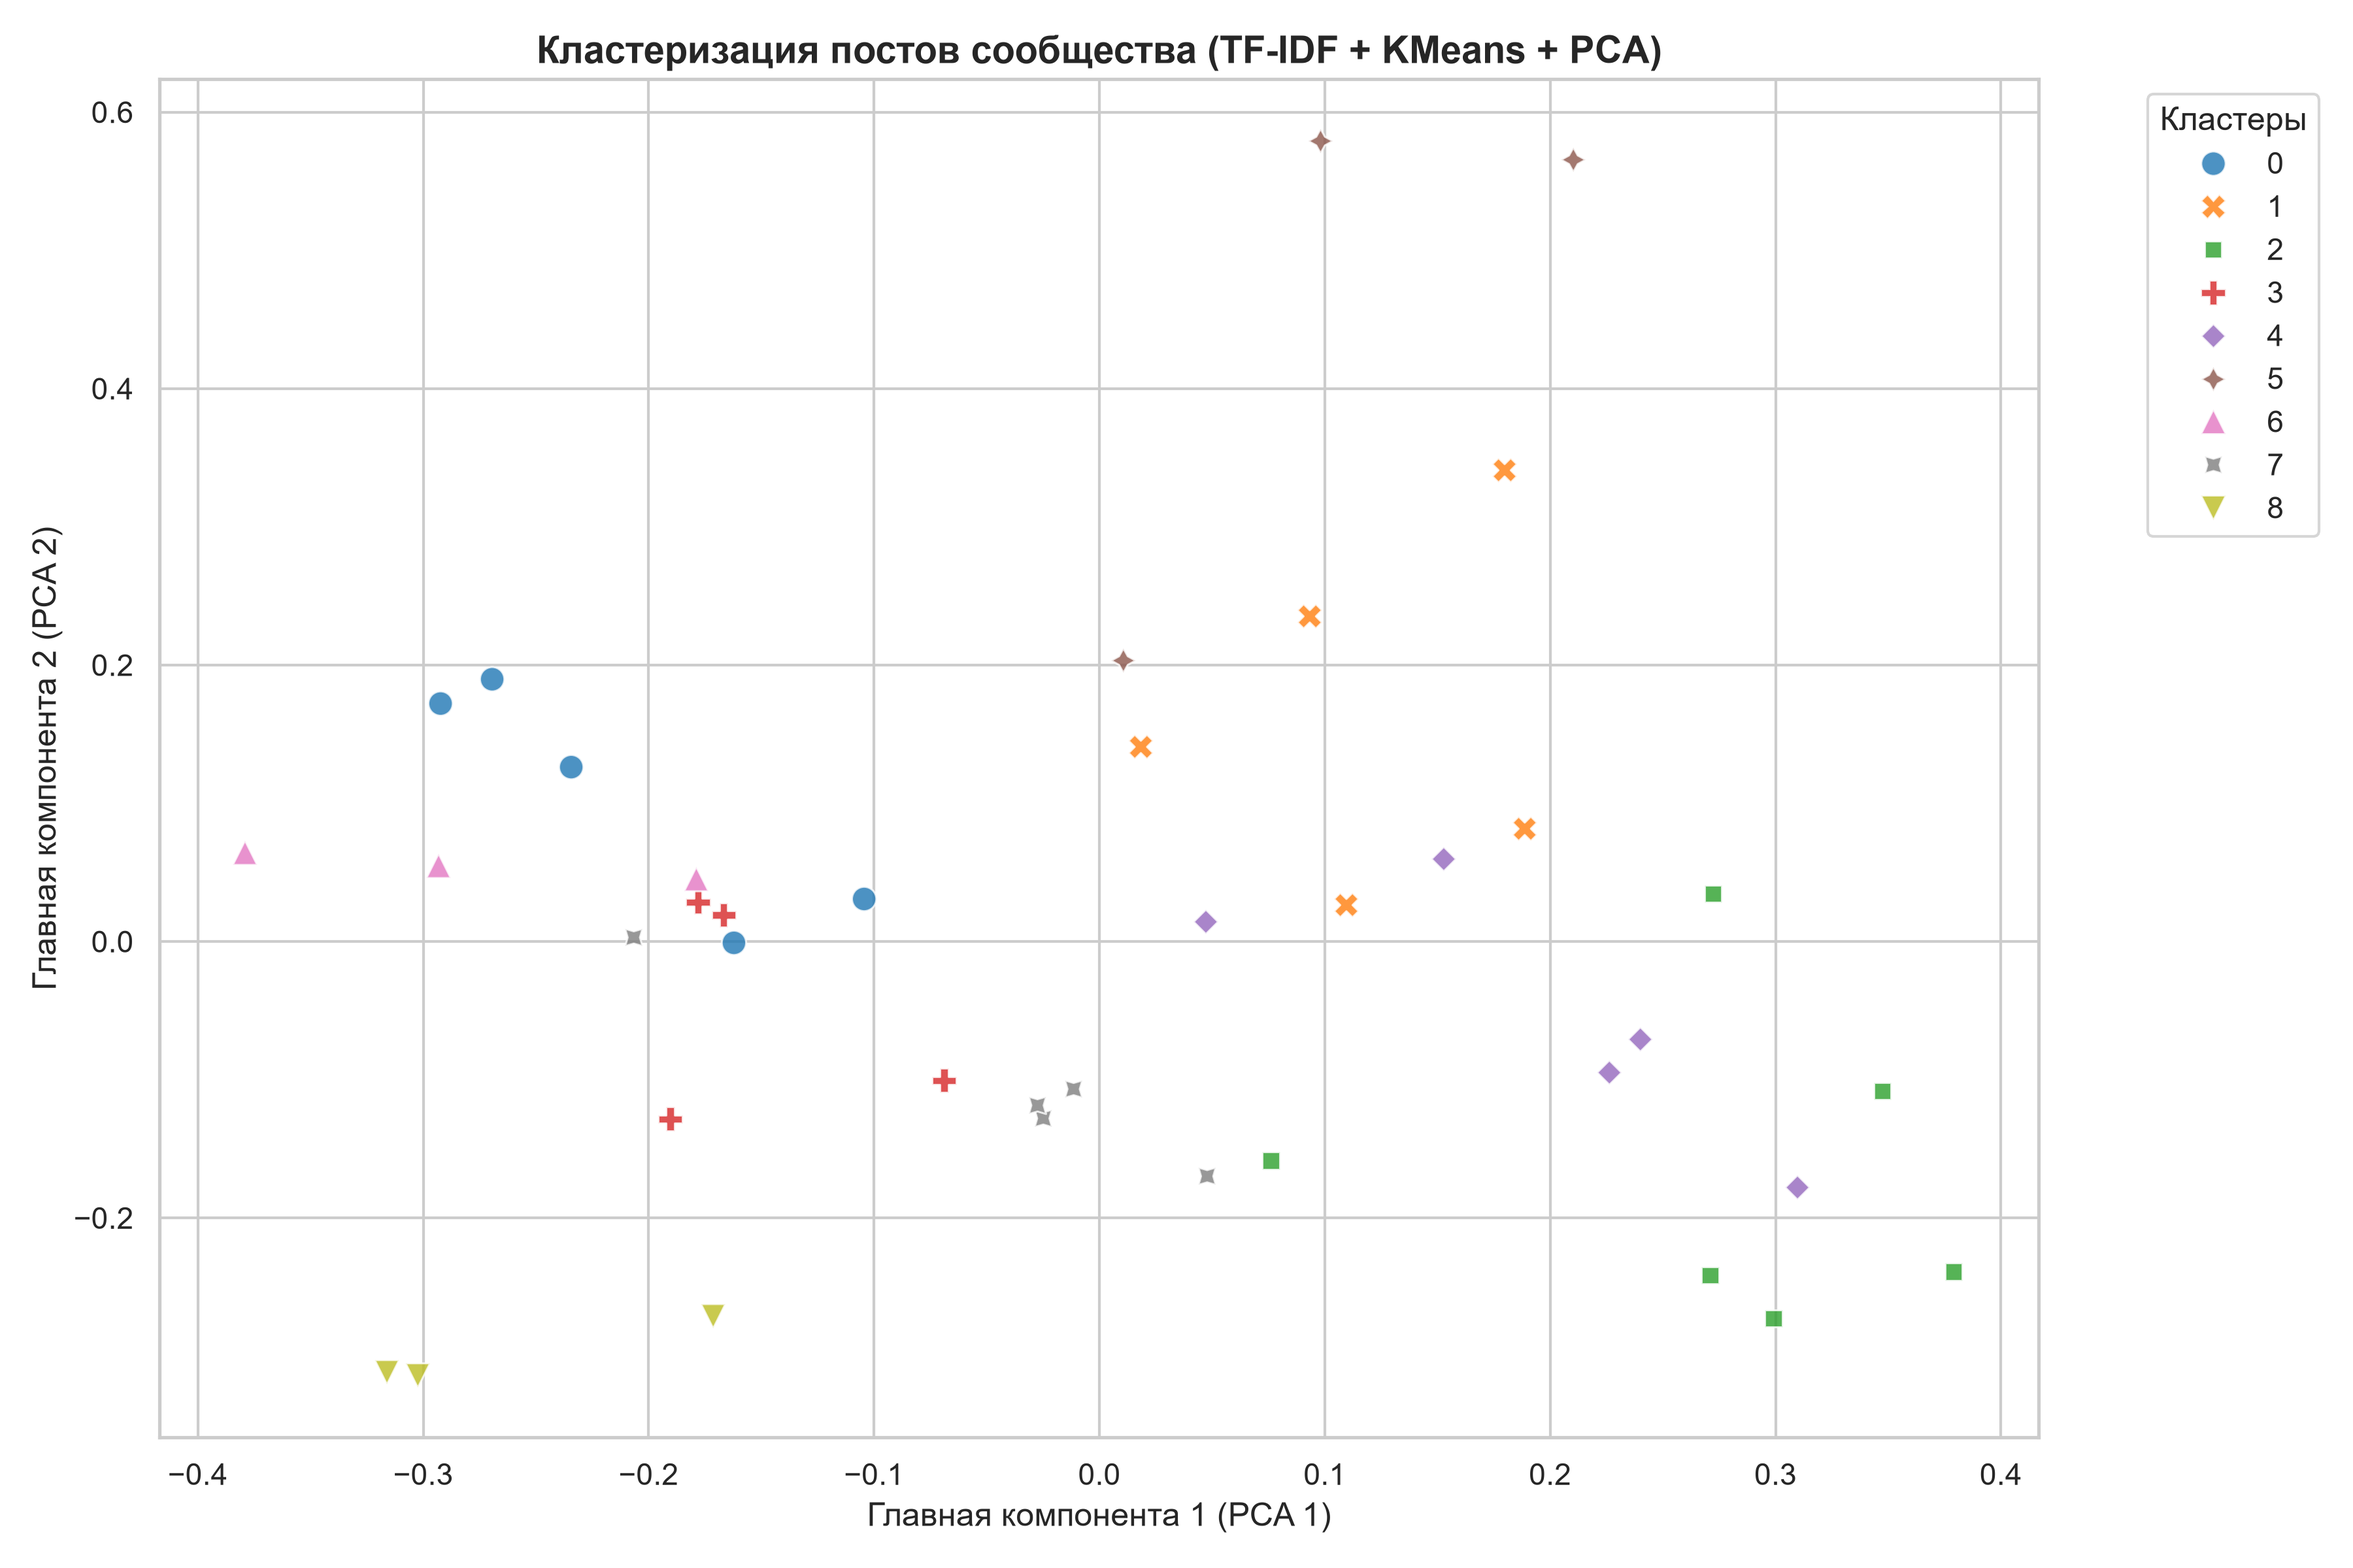
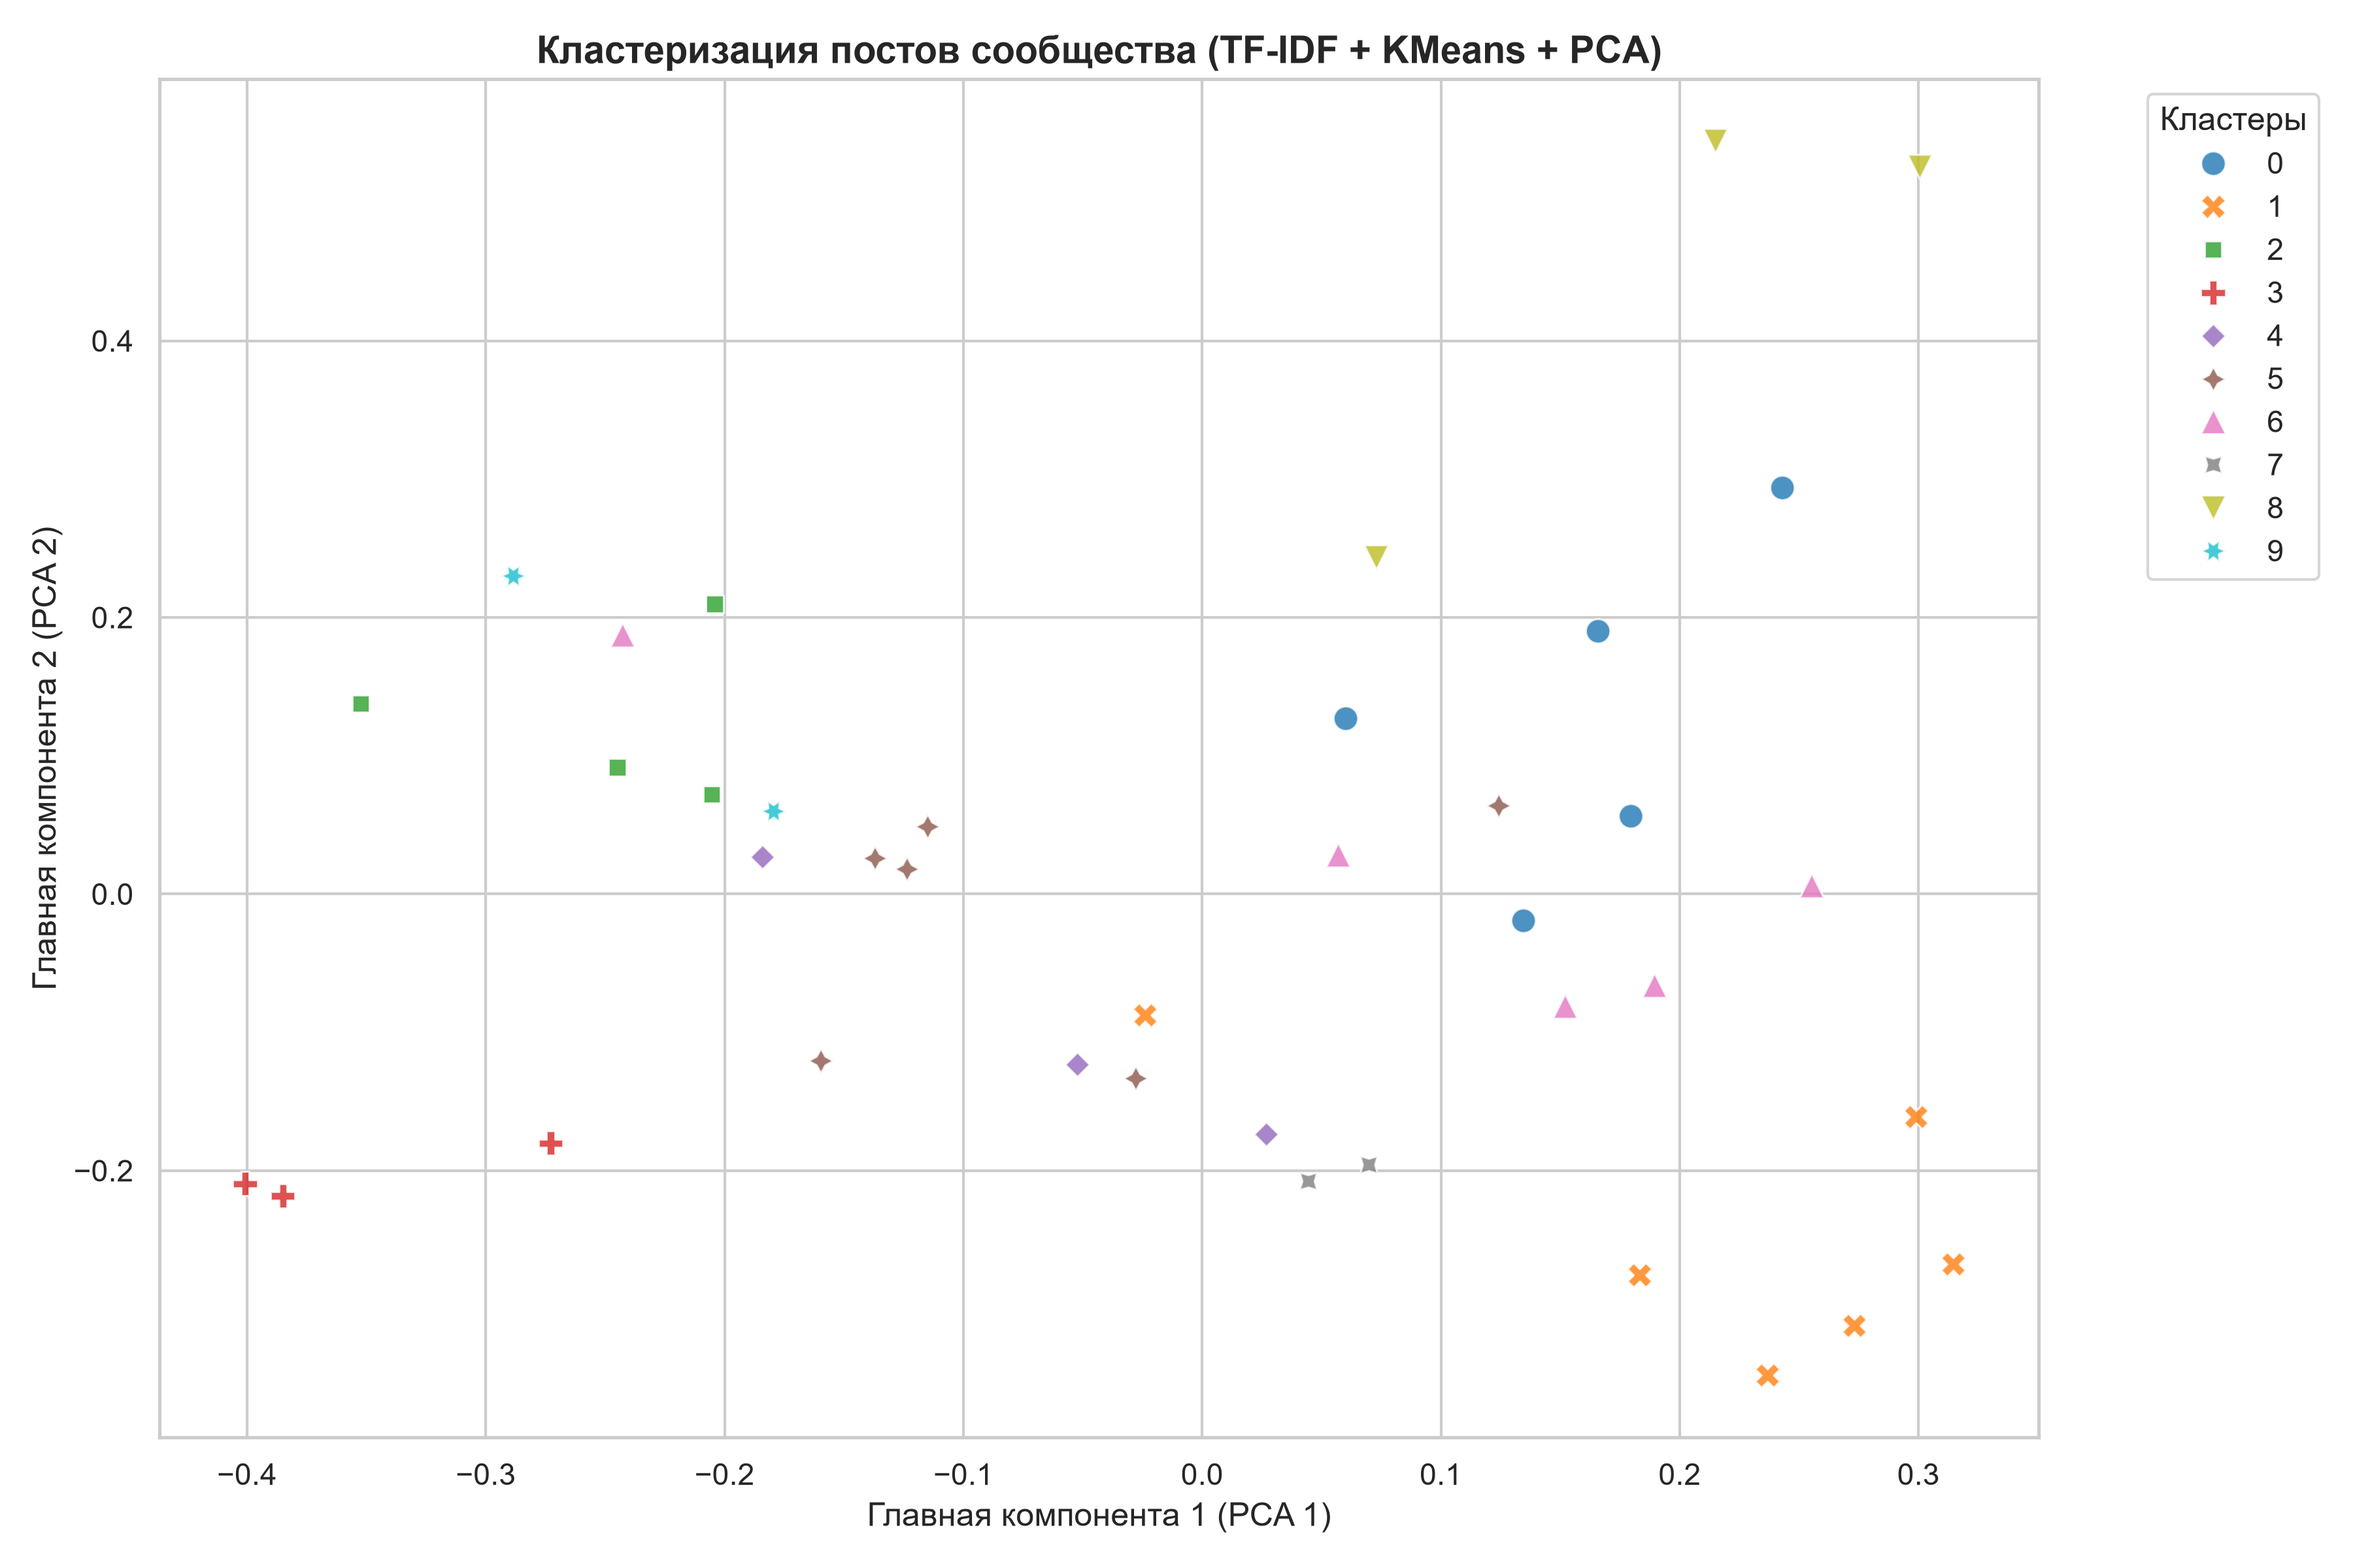
Эксперимент для 2й лабораторной

diff --git a/lab2/word_frequency.py b/lab2/word_frequency.py
@@ -36,7 +36,15 @@ def lemmatize_texts(cleaned_texts):
         "так",
         "один",
         "еще",
+        "ещё",
         "уже",
+        "наш",
+        "ваш",
+        "всё",
+        "также",
+        "очень",
+        "именно",
+        "кроме",
     }
     stop_words.update(custom_stop_words)
 

diff --git a/lab2/text_clustering.py b/lab2/text_clustering.py
@@ -21,7 +21,7 @@ def build_tfidf_vectorizer():
 
     return TfidfVectorizer(max_features=1000,
                            min_df=2,
-                           max_df=0.85,
+                           max_df=0.8,
                            ngram_range=(1, 2))
 
 
